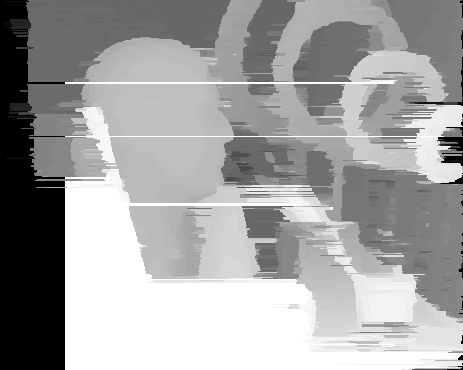
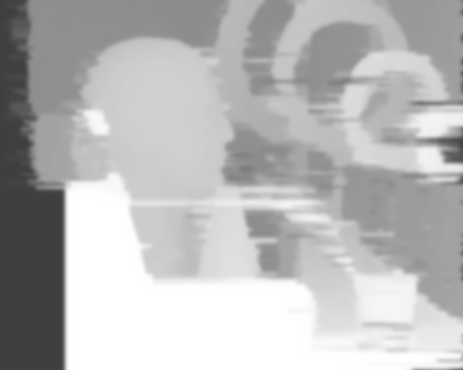
UI updates

diff --git a/frontend/index.html b/frontend/index.html
@@ -7,7 +7,86 @@
     <script src="./index.js" type="module"></script>
     <style>
       body {
+        background-color: rgb(13, 8, 1);
         padding-bottom: 20px;
+      }
+
+      h1{
+        color: whitesmoke;
+        text-align: center;
+      }
+
+      h2{
+        color: yellow;
+        text-align: center;
+      }
+
+      h3{
+        color: white;
+        text-align: center;
+      }
+      
+      span{
+        color: white;
+      }
+
+      p{
+        color: white;
+      }
+
+      label{
+        color: cyan;
+      }
+
+      input[type='radio'] {
+        accent-color: yellow;
+      }
+
+      input[type="range"] {
+        -webkit-appearance: none;
+        background: white;
+        height: 6px;
+      }
+
+      input[type="range"]::-webkit-slider-thumb {
+        -webkit-appearance: none;
+        height: 16px;
+        width: 16px;
+        background: yellow;
+        border-radius: 50%;
+        cursor: pointer;
+      }
+
+      input[type="range"]::-moz-range-thumb {
+        height: 16px;
+        background: yellow;
+        border-radius: 50%;
+        cursor: pointer;
+      }
+
+      .controls {
+        display: flex;
+        justify-content: space-evenly;
+        padding: 20px 40px;
+        gap: 40px;
+      }
+
+      .sliders {
+        display: flex;
+        flex-direction: column;
+        gap: 10px;
+      }
+
+      .radioButtons {
+        display: flex;
+        flex-direction: row;
+        gap: 5px;
+      }
+
+      .canvas-container {
+        display: flex;
+        justify-content: center;
+        margin-top: 20px;
       }
 
       form#image-selection {
@@ -47,82 +126,88 @@
     <h1>CSCE 748 Computational Photography FINAL PROJECT</h1>
     <h2 bold>~In placid depth, latent light sparkles~</h2>
     <h3>By Andres Santiago, Anil Parthasarathi, and Gage Mariano</h3>
-    <div>
-      <label>
-        <input
-          type="radio"
-          name="renderStyle"
-          value="0"
-          onclick="setRenderStyle('0')"
-        />
-        Default
-      </label>
-      <label>
-        <input
-          type="radio"
-          name="renderStyle"
-          value="4"
-          onclick="setRenderStyle('4')"
-        />
-        Disparity Map
-      </label>
-      <label>
-        <input
-          type="radio"
-          name="renderStyle"
-          value="1"
-          onclick="setRenderStyle('1')"
-        />
-        Normal Map
-      </label>
-      <label>
-        <input
-          type="radio"
-          name="renderStyle"
-          value="2"
-          onclick="setRenderStyle('2')"
-        />
-        Silhouette Shader
-      </label>
-      <label>
-        <input
-          type="radio"
-          name="renderStyle"
-          value="3"
-          onclick="setRenderStyle('3')"
-        />
-        Cel Shader
-      </label>
+    <div class="controls">
+      <div class = "radioButtons">
+        <label>
+          <input
+            type="radio"
+            name="renderStyle"
+            value="0"
+            onclick="setRenderStyle('0')"
+          />
+          Default
+        </label>
+        <label>
+          <input
+            type="radio"
+            name="renderStyle"
+            value="4"
+            onclick="setRenderStyle('4')"
+          />
+          Disparity Map
+        </label>
+        <label>
+          <input
+            type="radio"
+            name="renderStyle"
+            value="1"
+            onclick="setRenderStyle('1')"
+          />
+          Normal Map
+        </label>
+        <label>
+          <input
+            type="radio"
+            name="renderStyle"
+            value="2"
+            onclick="setRenderStyle('2')"
+          />
+          Silhouette Shader
+        </label>
+        <label>
+          <input
+            type="radio"
+            name="renderStyle"
+            value="3"
+            onclick="setRenderStyle('3')"
+          />
+          Cel Shader
+        </label>
+      </div>
+      <div class = "sliders"></div>
+        <div>
+          <label for="zSlider">"Z Factor":</label>
+          <input
+            type="range"
+            id="zSlider"
+            name="zSlider"
+            min="0.0"
+            max="1.0"
+            step="0.01"
+            value="0.15"
+            oninput="handleZSliderChange(this.value)"
+          />
+          <span id="sliderValue">0.15</span>
+        </div>
+        <div>
+          <label for="depthSlider">"Depth Factor":</label>
+          <input
+            type="range"
+            id="sliderD"
+            name="sliderD"
+            min="1.0"
+            max="1000000.0"
+            step="5.0"
+            value="598400.0"
+            oninput="handleDepthFactorChange(this.value)"
+          />
+          <span id="depthSlider">598400.0</span>
+        </div>
+      </div>
     </div>
-    <div>
-      <label for="zSlider">"Z Factor":</label>
-      <input
-        type="range"
-        id="zSlider"
-        name="zSlider"
-        min="0.0"
-        max="1.0"
-        step="0.01"
-        value="0.15"
-        oninput="handleZSliderChange(this.value)"
-      />
-      <span id="sliderValue">0.15</span>
+    <div class="canvas-container">
+      <canvas id="renderCanvas" width="950" height="700"></canvas>
     </div>
-    <div>
-      <label for="depthSlider">"Depth Factor":</label>
-      <input
-        type="range"
-        id="sliderD"
-        name="sliderD"
-        min="1.0"
-        max="1000000.0"
-        step="5.0"
-        value="598400.0"
-        oninput="handleDepthFactorChange(this.value)"
-      />
-      <span id="depthSlider">598400.0</span>
-    </div>
-    <canvas id="renderCanvas" width="950" height="700"></canvas>
     <form id="image-selection" type="radio" onsubmit="return false">
       <fieldset></fieldset>
       <div id="selected-images">

diff --git a/frontend/render.js b/frontend/render.js
@@ -279,8 +279,8 @@ async function main() {
     glContext.pixelStorei(glContext.UNPACK_FLIP_Y_WEBGL, true);
 
     const textureAssets = [
-        'assets/disparitySculpt.png',
-        'assets/sculpt.png',
+        'assets/disparityFace.png',
+        'assets/face.png',
     ];
 
     const textures = await Promise.all(textureAssets.map(textureLoader));
